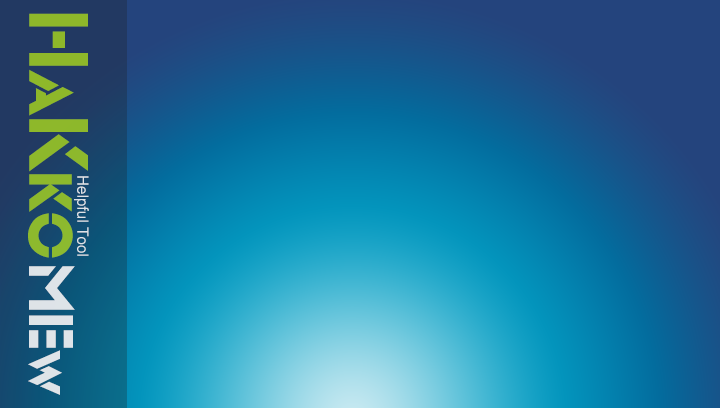
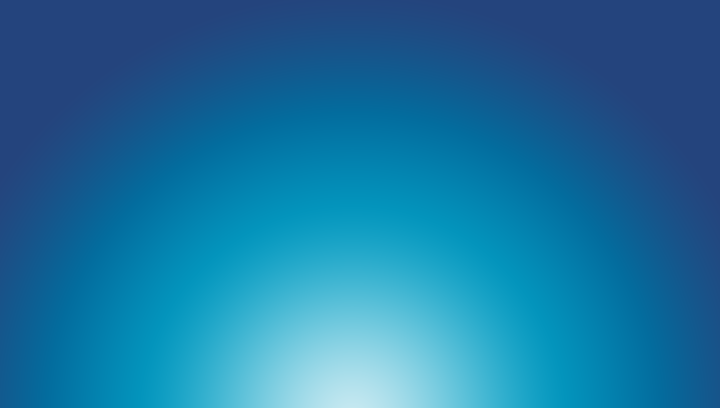
update images

Changed region(s): [[0.0, 0.0, 0.1833, 1.0]]

diff --git a/PSPlibrary/InitializeStore.xaml b/PSPlibrary/InitializeStore.xaml
@@ -61,21 +61,21 @@
         </LinearGradientBrush>
     </Window.Resources>
     <Grid>
-        <Image Height="272" x:Name="ImageAbout" VerticalAlignment="Top" HorizontalAlignment="Left" Width="480" Stretch="None" MouseUp="ImageAbout_MouseUp" />
-        <Grid x:Name="GridPreload" HorizontalAlignment="Left" Height="122" Margin="10,146,0,0" VerticalAlignment="Top" Width="466" d:IsHidden="True">
+        <Image x:Name="ImageAbout" Stretch="None" MouseUp="ImageAbout_MouseUp" />
+        <Grid x:Name="GridPreload" HorizontalAlignment="Left" Height="122" Margin="10,146,0,0" VerticalAlignment="Top" Width="466">
             <Label Content="Title Preload" Height="Auto" HorizontalAlignment="Left" Margin="6,0,0,0" x:Name="lblTitle" VerticalAlignment="Top" FontSize="14" FontWeight="Bold" Padding="2" FontFamily="Meiryo" />
             <Label Content="Subject Preload" Height="Auto" HorizontalAlignment="Left" Margin="6,35,0,0" x:Name="lblSubject" VerticalAlignment="Top" FontWeight="Normal" Padding="2" FontSize="10" FontFamily="Meiryo" />
-            <Label Content="Power By HaKkoMEw-FS." FontWeight="Bold" Height="Auto" HorizontalAlignment="Right" Margin="0,99,2,0" x:Name="lblCredit" Padding="2" VerticalAlignment="Top" Foreground="#FFD8D8D8" />
+            <Label Content="Power By Touno-K.com" FontWeight="Bold" Height="Auto" HorizontalAlignment="Right" Margin="0,99,2,0" x:Name="lblCredit" Padding="2" VerticalAlignment="Top" Foreground="#FF535353" />
             <ProgressBar Height="12" HorizontalAlignment="Left" Margin="7,23,0,0" VerticalAlignment="Top" Width="200" x:Name="barPreload" Value="0" LargeChange="1" Orientation="Horizontal" Minimum="0" IsEnabled="True" />
         </Grid>
         <Grid x:Name="GridAbout" HorizontalAlignment="Left" Height="122" Margin="10,146,0,0
-              " VerticalAlignment="Top" Width="466">
+              " VerticalAlignment="Top" Width="466" d:IsHidden="True">
             <Label x:Name="lblFanpage" Content="Fanpage:" HorizontalAlignment="Left" VerticalAlignment="Top" Margin="13,76,0,0" FontWeight="Bold" Padding="2" FontSize="10"/>
-            <Label x:Name="linkFanpage" Content="http://www.facebook.com/helpfultool" HorizontalAlignment="Left" Margin="65,76,0,0" VerticalAlignment="Top" Padding="2" FontSize="10"/>
+            <Label x:Name="linkFanpage" Content="http://www.facebook.com/anitouno.fanpage" HorizontalAlignment="Left" Margin="65,76,0,0" VerticalAlignment="Top" Padding="2" FontSize="10"/>
             <Label x:Name="lblProgramer" Content="Programer, Design" HorizontalAlignment="Left" VerticalAlignment="Top" Margin="10,29,0,0" FontWeight="Bold" Padding="2" FontSize="10"/>
-            <Label x:Name="lblUser" Content="HaKkoMEw-TEAM" HorizontalAlignment="Left" Margin="31,46,0,0" VerticalAlignment="Top" Padding="2" FontSize="10"/>
+            <Label x:Name="lblUser" Content="ToUNo-K.com" HorizontalAlignment="Left" Margin="31,46,0,0" VerticalAlignment="Top" Padding="2" FontSize="10"/>
             <Label x:Name="lblWebsite" Content="Website:" HorizontalAlignment="Left" VerticalAlignment="Top" Margin="15,93,0,0" FontWeight="Bold" Padding="2" FontSize="10"/>
-            <Label x:Name="linkWebsite" Content="http://www.helpfultool.com" HorizontalAlignment="Left" Margin="65,92,0,0" VerticalAlignment="Top" Padding="2" FontSize="10"/>
+            <Label x:Name="linkWebsite" Content="http://touno-k.com" HorizontalAlignment="Left" Margin="65,92,0,0" VerticalAlignment="Top" Padding="2" FontSize="10"/>
             <Label Content="ธนาคารไทยพาณิชย์ (มหาชน)" HorizontalAlignment="Left" Margin="309,47,0,0" VerticalAlignment="Top" Padding="0" FontSize="11"/>
             <Label Content="เลขที่บัญชี 101-239107-9" HorizontalAlignment="Left" Margin="309,77,0,0" VerticalAlignment="Top" Padding="0" FontSize="11"/>
             <Label Content="dvgamer@live.com" HorizontalAlignment="Left" Margin="363,99,0,0" VerticalAlignment="Top" Padding="0" FontSize="11"/>
